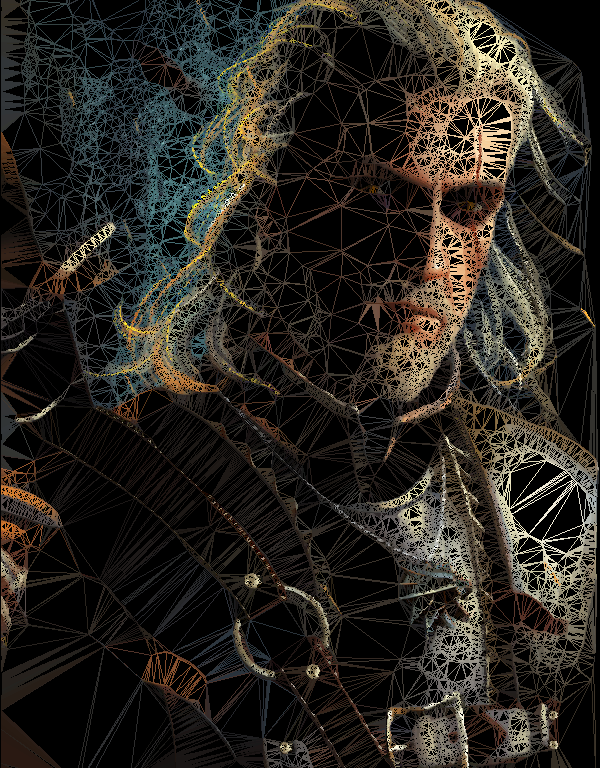
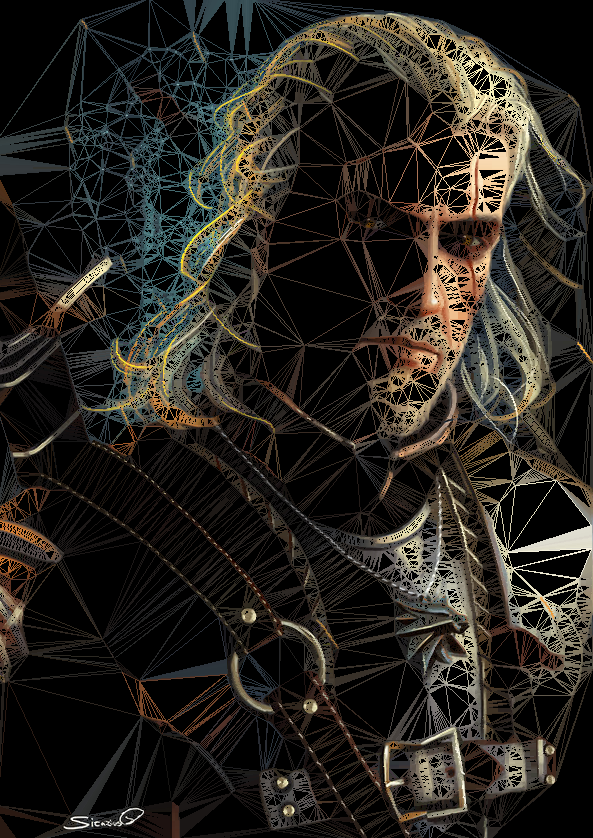
better geralt

diff --git a/README.md b/README.md
@@ -1,4 +1,4 @@
-![screenshot](img/ger.png)
+![screenshot](img/geralt.png)
 
 Weaver weaves a spider tapestry of your favorite image.
 
